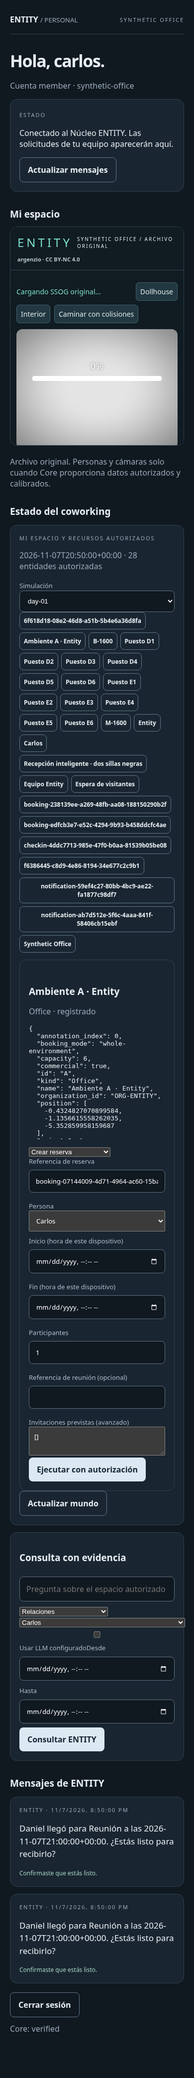
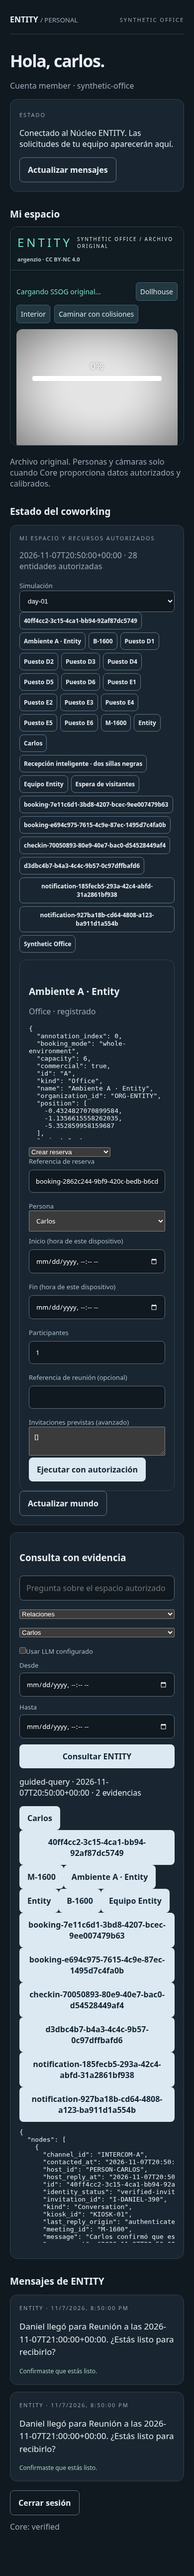
Align camera picker pixels with CCTV projection and correct meeting sensor provenance

diff --git a/apps/web/src/office/query-form.js b/apps/web/src/office/query-form.js
@@ -2,10 +2,13 @@
 const labels={graph:'Relaciones',entity:'Ficha',location:'Ubicación confirmada',agenda:'Agenda y reservas',events:'Historia',camera_observations:'Observaciones de cámara',cameras_for_person:'Cámaras con evidencia',causes:'Causas y evidencias',impact:'Impacto',diff:'Cambios',metrics:'Métricas'};
 function node(tag,text){const n=document.createElement(tag);if(text)n.textContent=text;return n;}
 export function mountQuery(element,{getWorld,getSelection,getBranch=()=> 'main',getAt=()=>null,send,onError,onSelect}){
+ if(element.officeQueryRefresh&&element.querySelector('form')){element.officeQueryRefresh();return;}
  element.replaceChildren(node('h3','Consulta con evidencia'));
  const form=node('form'),question=node('input');question.name='question';question.placeholder='Pregunta sobre el espacio autorizado';
  const kind=node('select');kind.name='kind';for(const [id,label]of Object.entries(labels)){const option=node('option',label);option.value=id;kind.append(option);}
  const entity=node('select');entity.name='entity_id';for(const item of Object.values(getWorld().entities)){const option=node('option',item.name||item.id);option.value=item.id;entity.append(option);}entity.value=getSelection();
+ let lastSelection=getSelection();
+ element.officeQueryRefresh=()=>{const chosen=entity.value;const current=getSelection();const entries=Object.values(getWorld().entities);entity.replaceChildren();for(const item of entries){const option=node('option',item.name||item.id);option.value=item.id;entity.append(option);}entity.value=current!==lastSelection?current:chosen;lastSelection=current;};
  const natural=node('input');natural.type='checkbox';natural.name='natural';const naturalLabel=node('label','Usar LLM configurado');naturalLabel.prepend(natural);
  const dates={};for(const name of ['from','to']){const label=node('label',name==='from'?'Desde':'Hasta');const input=node('input');input.type='datetime-local';input.name=name;dates[name]=input;label.append(input);form.append(label);}
  const submit=node('button','Consultar ENTITY');form.prepend(question,kind,entity,naturalLabel);form.append(submit);element.append(form);const answer=node('div');answer.id='office-answer';element.append(answer);

diff --git a/apps/web/src/office/visuals.js b/apps/web/src/office/visuals.js
@@ -79,7 +79,11 @@ export function installVisuals(viewer,original){
   const camera=entry.entity.camera,picker=new pc.Picker(app,160,90);
   const rect=camera.rect.clone();
   try{
-   app.renderNextFrame=true;await new Promise(resolve=>app.once('postrender',resolve));
+   await new Promise((resolve,reject)=>{
+    const finish=()=>{clearTimeout(timer);resolve();};
+    const timer=setTimeout(()=>{app.off('postrender',finish);reject(Error('Camera render did not complete within 10 seconds'));},10000);
+    app.once('postrender',finish);app.renderNextFrame=true;
+   });
    camera.rect=new pc.Vec4(0,0,1,1);picker.prepare(camera,app.scene);camera.rect=rect;
    const tracks=[];
    for(const [personId,entity]of avatars){
@@ -87,9 +91,12 @@ export function installVisuals(viewer,original){
     if(!entity.enabled||!pose)continue;
     const center=entity.getPosition().clone().add(new pc.Vec3(0,.9,0));
     const depth=center.clone().sub(entry.entity.getPosition()).dot(entry.entity.forward);
-    const screen=camera.camera.worldToScreen(center,160,90);
+    // Picker uses its complete 160×90 target; worldToScreen otherwise applies the CCTV tile rect.
+    camera.rect=new pc.Vec4(0,0,1,1);
+    const screen=camera.camera.worldToScreen(center,160,90);camera.rect=rect;
     if(depth<=0||screen.x<0||screen.x>=160||screen.y<0||screen.y>=90)continue;
-    const hits=await picker.getSelectionAsync(Math.max(0,screen.x-3),Math.max(0,screen.y-8),7,17);
+    let timer;
+    const hits=await Promise.race([picker.getSelectionAsync(Math.max(0,screen.x-3),Math.max(0,screen.y-8),7,17),new Promise((_,reject)=>{timer=setTimeout(()=>reject(Error('Camera visibility readback timed out')),10000);})]).finally(()=>clearTimeout(timer));
     const owned=hits.some(hit=>{let node=hit.node;while(node){if(node===entity)return true;node=node.parent;}return false;});
     if(owned){
      const bytes=await crypto.subtle.digest('SHA-256',new TextEncoder().encode(id+':'+personId));

diff --git a/apps/web/personal.html b/apps/web/personal.html
@@ -38,7 +38,7 @@ async function loadWorld(){
  }
  if(selectedEntity&&!personalWorld.entities[selectedEntity])selectedEntity=null;
  let details=$('personal-details');if(!details){details=el('section','panel');details.id='personal-details';list.after(details);}
- if(!$('personal-query').querySelector('form'))mountQuery($('personal-query'),{getWorld:()=>personalWorld,getSelection:()=>selectedEntity||actor.person_id||'site',send:body=>request('/v1/sites/'+encodeURIComponent(actor.site_id)+'/runs/'+encodeURIComponent($('run').value)+'/agent/requests',{method:'POST',body:JSON.stringify(body)}),onError:error=>notice(error.message,true),onSelect:id=>selectEntity(id)});
+ mountQuery($('personal-query'),{getWorld:()=>personalWorld,getSelection:()=>selectedEntity||actor.person_id||'site',send:body=>request('/v1/sites/'+encodeURIComponent(actor.site_id)+'/runs/'+encodeURIComponent($('run').value)+'/agent/requests',{method:'POST',body:JSON.stringify(body)}),onError:error=>notice(error.message,true),onSelect:id=>selectEntity(id)});
  if(selectedEntity){const entity=personalWorld.entities[selectedEntity];const title=details.querySelector('h2');if(title)title.textContent=entity.name||entity.id;const facts=details.querySelector('[data-personal-facts]');if(facts)facts.textContent=JSON.stringify(entity,null,2);}
 }
 async function selectEntity(id){

diff --git a/services/entity-api/app/office/simulation.py b/services/entity-api/app/office/simulation.py
@@ -39,6 +39,9 @@ def install_day(db,site,run,actor):
         changes[key]=item
         stream=upsert_resource(db,site,'STREAM-'+key,'Stream',{'camera_id':key,'type':'synthetic-observations','video_recorded':False});changes[stream['id']]=stream
         db.execute('INSERT OR IGNORE INTO office_bindings VALUES(?,?,?,?,?)',(site,key,'simulated','1.0','{}'))
+    sensor=upsert_resource(db,site,'SENSOR-MEETING','Sensor',{'name':'Ambiente simulado · mesa de reuniones','virtual':True,'zone_id':'annotation-1','position':None,'physical_device_verified':False,'spatial_mapping':'logical-zone-only'})
+    changes[sensor['id']]=sensor
+    db.execute('INSERT OR IGNORE INTO office_bindings VALUES(?,?,?,?,?)',(site,sensor['id'],'simulated','1.0','{}'))
     changes['PERSON-DANIEL']=upsert_resource(db,site,'PERSON-DANIEL','Person',{'name':'Daniel','profile_level':'visitor','fictitious':True,'known_fields':['name','invitation'],'presence':'unknown'})
     emit(db,site,run,'main',r['clock'],'simulation.configured',actor['actor'],changes,{'daily_script':'coworking-v2','geometry_claimed':False})
     book='B-LUIS-'+run;morning='M-MORNING-'+run;meeting='M-1600-'+run;invite='I-DANIEL-'+run;conversation='C-DANIEL-'+run
@@ -49,6 +52,9 @@ def install_day(db,site,run,actor):
     guests=[{'id':'I-UNKNOWN-'+str(i)+'-'+run} for i in range(3)]+[{'id':invite,'name':'Daniel'}]
     cmd('08:00:00','book-daniel','booking.create','MEETING-AREA-01',booking_id='B-1600-'+run,person_id='PERSON-CARLOS',starts_at=at('16:00:00'),ends_at=at('17:00:00'),party_size=5,meeting_id=meeting,expected_guests=guests)
     for group in ['D','E']:cmd('08:00:00','power-on-'+group,'device.setPower','HVAC-'+group,on=True)
+    for group in ['D','E']:
+        for name,value,unit in [('temperature',23,'C'),('humidity',48,'percent'),('illuminance',450,'lux'),('co2',650,'ppm')]:
+            add('08:01:00','baseline-'+group+'-'+name,'sensor',{'source_id':'SENSOR-'+group,'name':name,'value':value,'unit':unit})
     luis=[{'local_track_id':'luis-badge-session','zone_id':'ZONE-D','position':[.4,.6]}]
     observe('09:15:00','luis-anonymous','CAM-05',luis)
     badge('09:15:05','luis-identify','CAM-05','luis-badge-session','PERSON-LUIS')
@@ -61,7 +67,7 @@ def install_day(db,site,run,actor):
     observe('10:30:00','morning-occupancy','CAM-02',tracks)
     for i,p in enumerate(people):badge('10:30:00','morning-badge-'+str(i),'CAM-02',p,p)
     cmd('10:30:00','morning-start','meeting.start',morning,participants=people)
-    add('10:35:00','co2-meeting','sensor',{'source_id':'SENSOR-D','name':'co2','value':1300,'unit':'ppm'})
+    add('10:35:00','co2-meeting','sensor',{'source_id':'SENSOR-MEETING','name':'co2','value':1300,'unit':'ppm'})
     add('11:20:00','extension-conflict','expected_conflict',{'operation':'booking.extend','target':'B-MORNING-'+run,'inputs':{'ends_at':at('12:00:00')}})
     cmd('11:21:00','alternative','booking.reassign','B-FOLLOWING-'+run,resource_id='B')
     cmd('11:21:01','morning-extended','booking.extend','B-MORNING-'+run,ends_at=at('12:00:00'))

diff --git a/services/entity-api/tests/test_office_simulation.py b/services/entity-api/tests/test_office_simulation.py
@@ -76,3 +76,18 @@ class DailySimulationTests(unittest.TestCase):
         state=self.client.get(root+'/world',headers=self.headers).json()
         self.assertEqual(state['entities']['C-DANIEL-participant']['last_reply_origin'],'authenticated-personal-client')
         self.assertEqual(state['entities']['C-DANIEL-participant']['status'],'host_ready')
+
+    def test_meeting_co2_is_not_misattributed_to_public_desks(self):
+        root=self.install('sensor-scope')
+        response=self.client.post(root+'/simulation/advance',headers=self.headers,json={'to':'2026-11-07T10:35:00-05:00'})
+        self.assertEqual(response.status_code,200,response.text)
+        items=self.client.get(root+'/world',headers=self.headers).json()['entities']
+        measurement=items['annotation-1']['environment']['co2']
+        self.assertEqual(measurement['source_id'],'SENSOR-MEETING')
+        self.assertEqual(measurement['value'],1300)
+        for zone in ['ZONE-D','ZONE-E']:
+            self.assertEqual(items[zone]['environment']['co2']['value'],650)
+            self.assertEqual(items[zone]['environment']['humidity']['unit'],'percent')
+            self.assertEqual(items[zone]['environment']['illuminance']['unit'],'lux')
+        main.initialize()
+        self.assertEqual(items,self.client.get(root+'/world',headers=self.headers).json()['entities'])

diff --git a/docs/AGENT-WORKLOG.md b/docs/AGENT-WORKLOG.md
@@ -274,3 +274,7 @@ SSOG real ejecutó prueba42418437402 y falló por divergencia de pose; no declar
 
 ### 2026-11-07 — Codex, cliente personal yverificación pública
 72testsPASS48.835s (backend-regression.txt), QA6RocketboxPASS (avatar-assets.json,raíz conservada); recepciónHTTP/navegador1280/390PASS conreservaA yproyección3Dautorizada. office.html reutilizado eniframe mismo origen sincredenciales, escucha únicamente alpadre delmismo origen; permisos/filtros procedenCore. Formulariodeconsulta extraído yreutilizadoenOffice/personal; contexto histórico guiadoexplícito, LLM sincontexto seleccionado no seofrececomohistórico. Pages ahora verificaráURLpúblicaoffice.html ySSOG/voxels, ademásdelmall anterior. Pruebasespaciales acotadas480s concheckpoints paraevitar fallosinregistro. No certifica09.1–09.3/09.9 niAndroidfísico.
+
+### 2026-11-07 — Codex, diagnóstico espacial ymediciones porzona
+RerunSSOG08f2295 prueba posicionesCore/renderer coincidentes enlos5instantesyCCTVoriginal visible, pero10lecturasvisibilidad resultanvacías; gate09.3FAIL. Encontradocálculodepíxel conrectdeazulejoCCTV mientraspickerrenderiza targetcompleto; corregidousandoelmismo viewportcompleto paraambos. Seacotan esperas deGPU/render, sinfabricar tracks. Nuevarunpendiente.
+Consulta compartida móvil: E2E1280/390PASScongrafoCarlos ysinLuis/cámarasprivadas; selecciones/inputspreservadosduranteactualizaciones. HallazgoCO2dereuniónerróneamenteatribuidoaDcorregido en nuevasjornadas: fuente virtual separada ligadaazonareunión; baseline humedad/lux/temperatura/CO2D/E porcontratosyaexistentes. 4pruebasdiariasPASS6.067s, incluyenzona correctayreinicio. Jornadasyaejecutadas no se reescriben; guionesya instalados sepreservan yrequieren nuevaejecuciónparausarcorrección.
